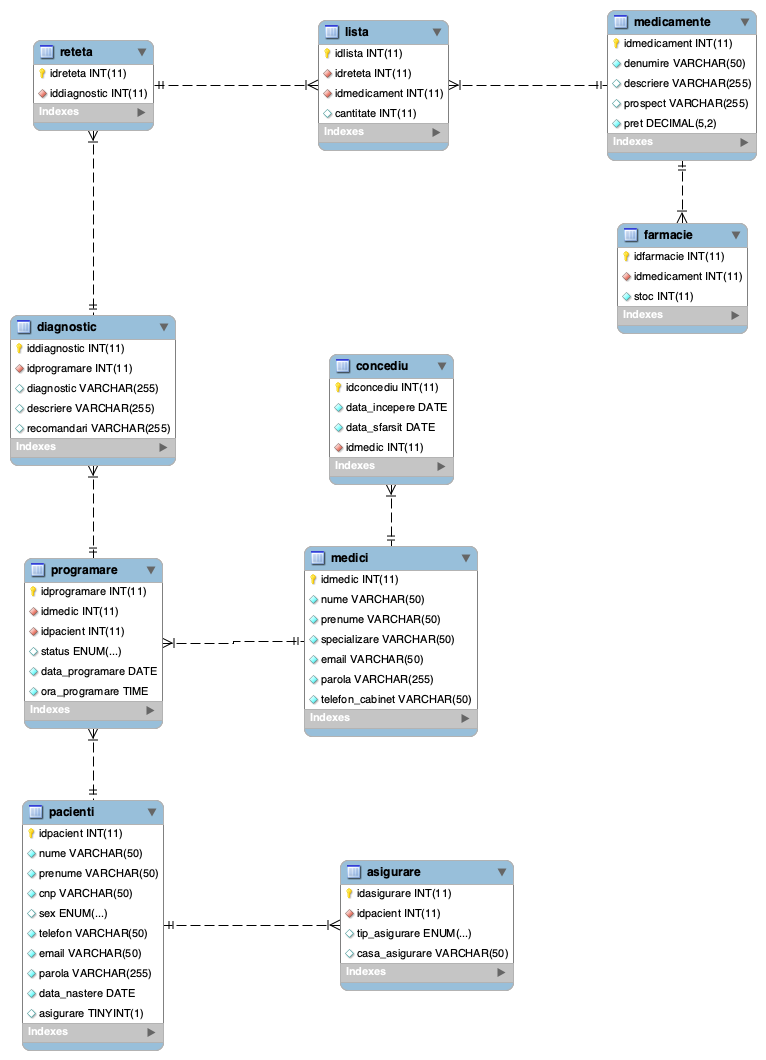
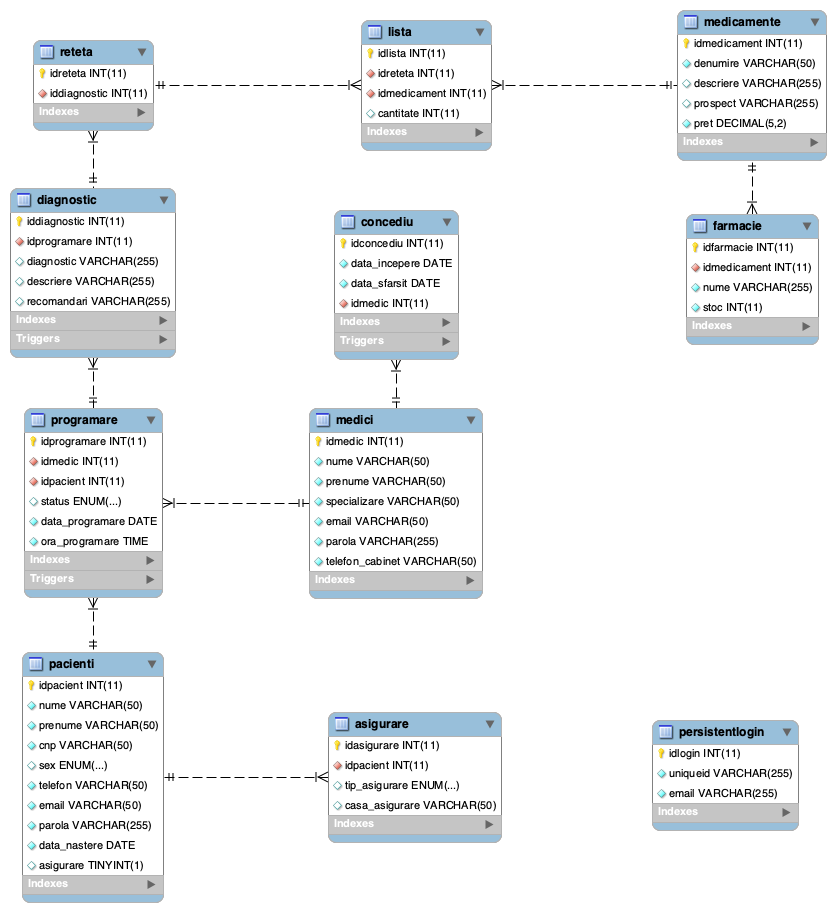
implemented diagnosis trigger when there is already another one with the same appointment id, updated queries, updated db schema

diff --git a/www/diagnostic/adauga/submit.php b/www/diagnostic/adauga/submit.php
@@ -74,79 +74,97 @@
           $stmt = $mysqli->prepare($sql);
           $stmt->bind_param("isss", $_POST["idprogramare"], $_POST["diagnostic"], $_POST["descriere"], $_POST["recomandari"]);
           
-          $stmt->execute();
-          
-          if ($stmt->affected_rows > 0) {
-            if ($_POST["medicineNumber"] > 0) {
-              // we also have medicine
-              $success = true;
+          try {
+            $stmt->execute();
 
-              $iddiagnostic = $mysqli->insert_id;
+            if ($stmt->affected_rows > 0) {
+              if ($_POST["medicineNumber"] > 0) {
+                // we also have medicine
+                $success = true;
 
-              // insert reteta
-              $stmt->close();
+                $iddiagnostic = $mysqli->insert_id;
 
-              $sql = "INSERT INTO reteta (iddiagnostic) 
-              VALUES (?)";
+                // insert reteta
+                $stmt->close();
 
-              $stmt = $mysqli->prepare($sql);
-              $stmt->bind_param("i", $iddiagnostic);
-              
-              $stmt->execute();
+                $sql = "INSERT INTO reteta (iddiagnostic) 
+                VALUES (?)";
 
-              if ($stmt->affected_rows > 0) {
-                $idreteta = $mysqli->insert_id;
+                $stmt = $mysqli->prepare($sql);
+                $stmt->bind_param("i", $iddiagnostic);
+                
+                $stmt->execute();
 
-                for ($i = 0; $i < $_POST["medicineNumber"]; $i++) {
-                  $stmt->close();
-  
-                  $sql = "INSERT INTO lista (idreteta, idmedicament, cantitate) 
-                  VALUES (?, ?, ?)";
+                if ($stmt->affected_rows > 0) {
+                  $idreteta = $mysqli->insert_id;
 
-                  $currentMedicine = "medicineNumber" . $i;
-                  $currentQuantity = "medicineQuantity" . $i;
-  
-                  $stmt = $mysqli->prepare($sql);
-                  $stmt->bind_param("iii", $idreteta, $_POST[$currentMedicine], $_POST[$currentQuantity]);
-                  
-                  $stmt->execute();
-                  
-                  if (!$stmt->affected_rows > 0) {
-                    $success = false;
-                    break;
+                  for ($i = 0; $i < $_POST["medicineNumber"]; $i++) {
+                    $stmt->close();
+    
+                    $sql = "INSERT INTO lista (idreteta, idmedicament, cantitate) 
+                    VALUES (?, ?, ?)";
+
+                    $currentMedicine = "medicineNumber" . $i;
+                    $currentQuantity = "medicineQuantity" . $i;
+    
+                    $stmt = $mysqli->prepare($sql);
+                    $stmt->bind_param("iii", $idreteta, $_POST[$currentMedicine], $_POST[$currentQuantity]);
+                    
+                    $stmt->execute();
+                    
+                    if (!$stmt->affected_rows > 0) {
+                      $success = false;
+                      break;
+                    }
+                  }
+    
+                  if ($success) {
+                    $mysqli->commit();
+    
+                    echo "Diagnosticul a fost adăugat cu succes!";
+                    echo "<meta http-equiv=\"refresh\" content=\"3;url=/programari\">";
+                  }
+                  else {
+                    echo "Eroare la adăugarea rețetei de medicamente! Vă rugăm încercați din nou.";
+                
+                    $mysqli->rollback();
                   }
                 }
-  
-                if ($success) {
-                  $mysqli->commit();
-  
-                  echo "Diagnosticul a fost adăugat cu succes!";
-                  echo "<meta http-equiv=\"refresh\" content=\"3;url=/programari\">";
-                }
                 else {
-                  echo "Eroare la adăugarea rețetei de medicamente! Vă rugăm încercați din nou.";
-              
+                  echo "Eroare la adăugarea rețetei! Vă rugăm încercați din nou.";
+                
                   $mysqli->rollback();
                 }
               }
               else {
-                echo "Eroare la adăugarea rețetei! Vă rugăm încercați din nou.";
-              
-                $mysqli->rollback();
+                // no medicine, commit directly
+                $mysqli->commit();
+    
+                echo "Diagnosticul a fost adăugat cu succes!";
+                echo "<meta http-equiv=\"refresh\" content=\"3;url=/programari\">";
               }
             }
             else {
-              // no medicine, commit directly
-              $mysqli->commit();
-  
-              echo "Diagnosticul a fost adăugat cu succes!";
-              echo "<meta http-equiv=\"refresh\" content=\"3;url=/programari\">";
+              echo "Eroare la adăugarea diagnosticului!";
+              
+              $mysqli->rollback();
             }
           }
-          else {
-            echo "Eroare la adăugarea diagnosticului!";
+          catch (Exception $e) {
+            $error = $e->getMessage();
             
-            $mysqli->rollback();
+            if (strpos($error, 'Există deja un diagnostic pentru această programare.') !== false) {
+              echo "Eroare: " . $error;
+              $mysqli->rollback();
+            }
+            else if (strpos($error, 'Nu puteți insera un diagnostic pentru o programare din viitor.') !== false) {
+              echo "Eroare: " . $error;
+              $mysqli->rollback();
+            }
+            else {
+              echo "Eroare la adăugarea programării!";
+              $mysqli->rollback();
+            }
           }
 
           $stmt->close();

diff --git a/www/medicamente.php b/www/medicamente.php
@@ -68,7 +68,7 @@
           echo "Nume farmacie: " . $row["nume"] . "<br>";
           echo "Stoc: " . $row["stoc"] . "<br>";
 
-          if (!strcmp($_SESSION["userType"], "medic")) {
+          if (isset($_SESSION["loggedin"]) && !strcmp($_SESSION["userType"], "medic")) {
           ?>
           <div class="mt-2">
             <button type="button" class="btn btn-outline-danger" onclick="confirmBox();">Sterge medicamentul</button>

diff --git a/www/sqlinit.php b/www/sqlinit.php
@@ -8,6 +8,6 @@ $database = "clinica";
 // Display errors
 ini_set('display_errors', '1');
 ini_set('display_startup_errors', '1');
-error_reporting(E_ALL);
+error_reporting(E_ALL & ~E_NOTICE);
 mysqli_report(MYSQLI_REPORT_ERROR | MYSQLI_REPORT_STRICT);
 ?>
